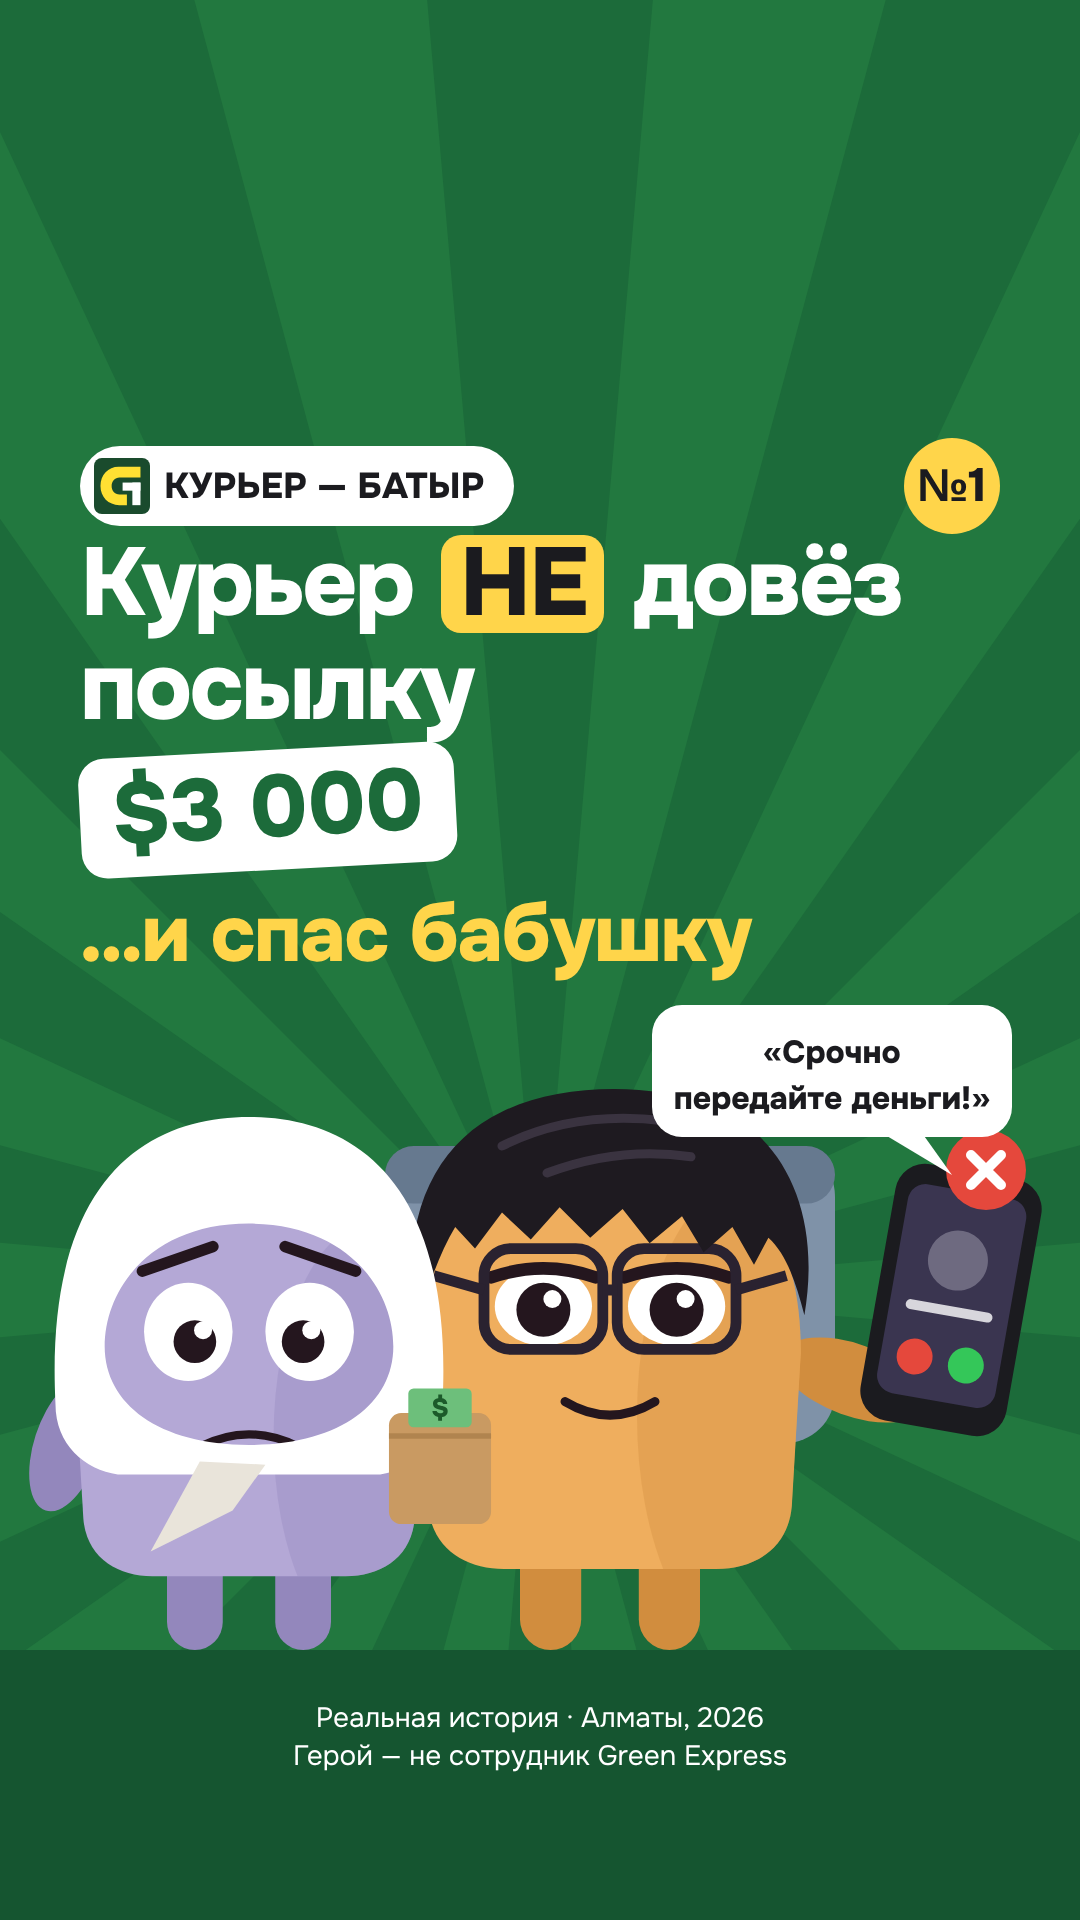
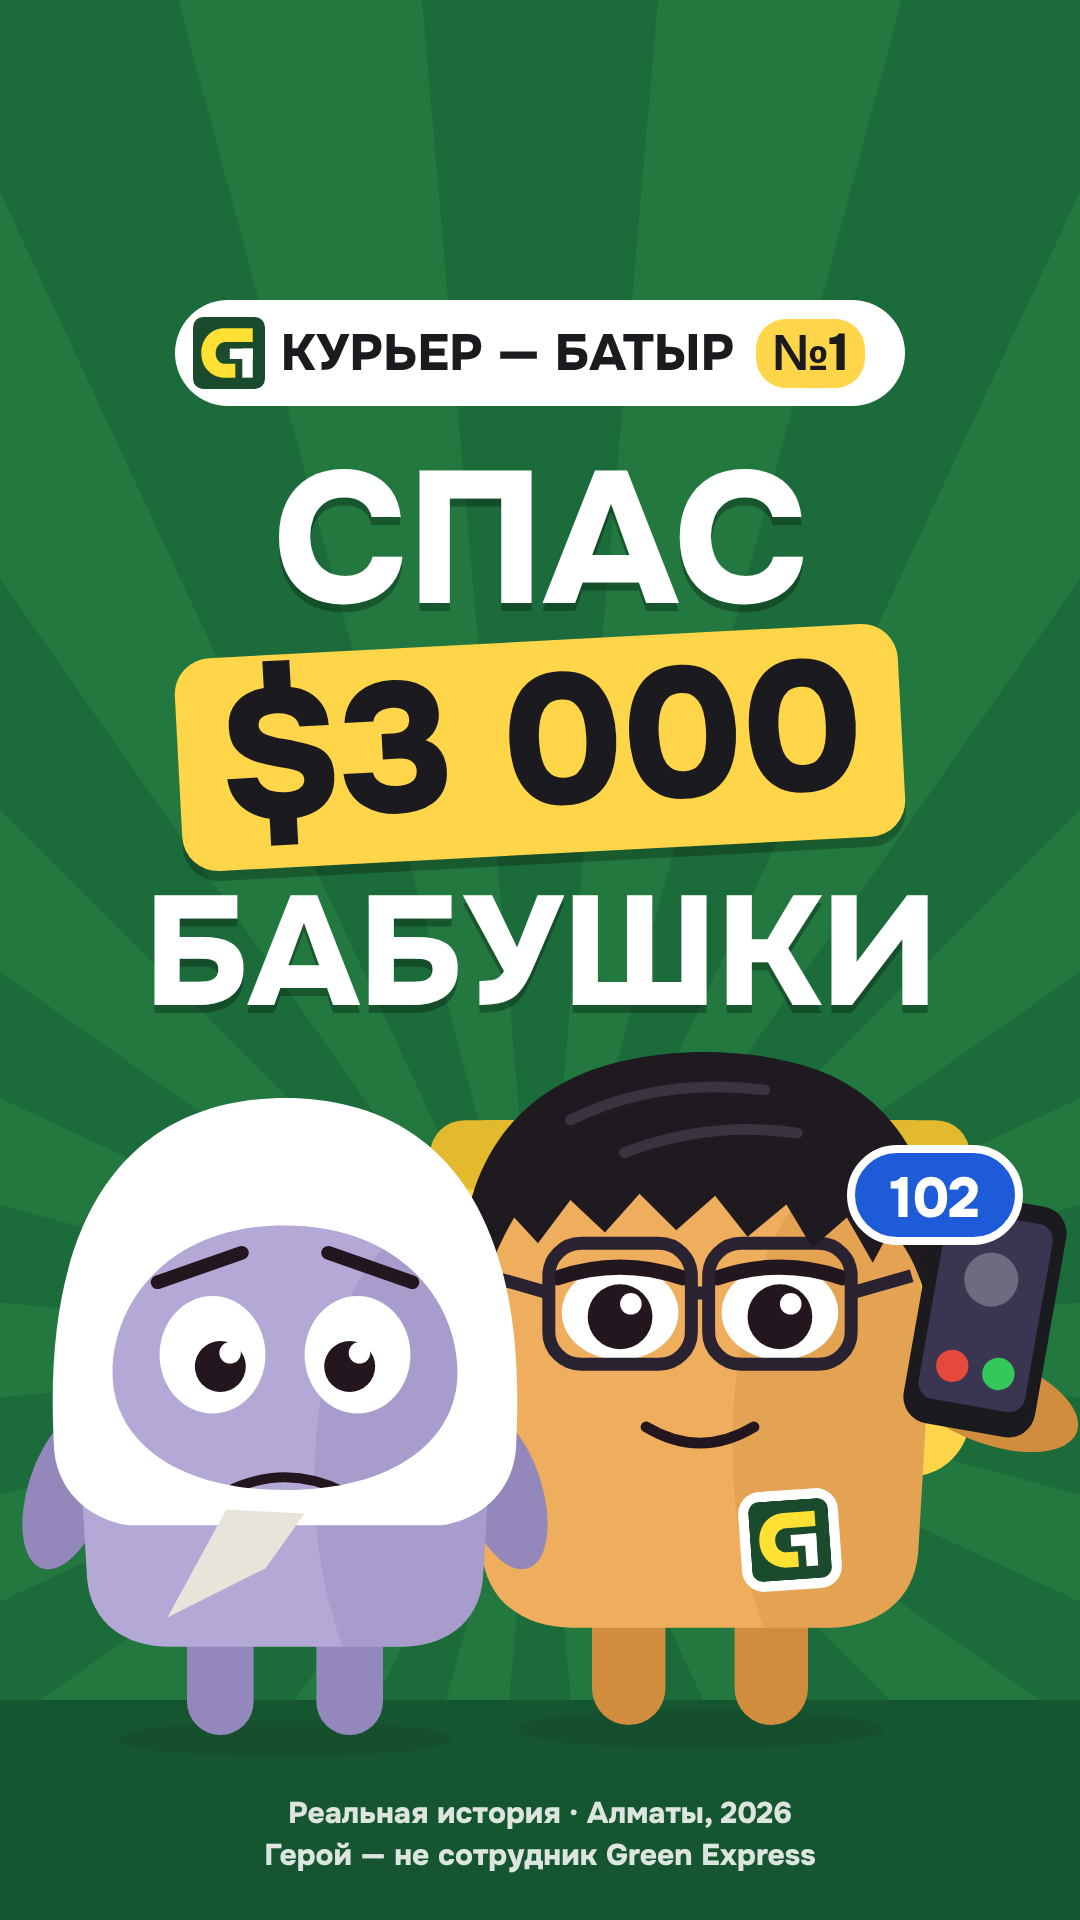
Courier heroes ep01: grid-first cover redesign (big 3-line headline, reviewed 8.5+)
Claude-Session: https://claude.ai/code/session_015PP6DdKJ123PbBgShdbRym

diff --git a/projects/courier-heroes/ep01/cover/cover.html b/projects/courier-heroes/ep01/cover/cover.html
@@ -5,47 +5,46 @@
 <style>
 @font-face{font-family:Onest;font-weight:800;src:url(assets/onest-cyrillic-800-normal.woff2);unicode-range:U+0400-045F}
 @font-face{font-family:Onest;font-weight:800;src:url(assets/onest-latin-800-normal.woff2);unicode-range:U+0000-00FF,U+2010-2027,U+00AB,U+00BB,U+2116}
-@font-face{font-family:Onest;font-weight:500;src:url(assets/onest-cyrillic-400-normal.woff2);unicode-range:U+0400-045F}
-@font-face{font-family:Onest;font-weight:500;src:url(assets/onest-latin-400-normal.woff2);unicode-range:U+0000-00FF,U+2010-2027,U+00AB,U+00BB}
-/* Series template tokens (ui-ux-pro-max: ui-reasoning «Social Media App» → Vibrant & Block-based; styles «Flat Design» → ≤6 colours, no gradients)
-   bg = Green Express green, rays = lighter green, ink/white text, yellow accent, red alert. */
+/* Grid-first cover: everything that matters sits in the 3:4 centre (y 240–1680) and reads at ~130 pt tile width. */
 :root{--bg:#1C6B3A;--ray:#22783F;--ground:#155530;--white:#FFFFFF;--ink:#1B1B1F;--yel:#FFD54A;--red:#E5483C}
 html,body{margin:0}
-body{width:1080px;height:1920px;overflow:hidden;font-family:Onest,sans-serif;background:var(--bg);color:var(--white)}
-#c{position:relative;width:1080px;height:1920px;overflow:hidden;background:var(--bg)}
+body{width:1080px;height:1920px;overflow:hidden;font-family:Onest,sans-serif;background:var(--bg)}
+#c{position:relative;width:1080px;height:1920px;overflow:hidden}
 .abs{position:absolute}
-.rubric{left:80px;top:446px;display:flex;align-items:center;gap:14px;height:80px;padding:0 30px 0 14px;border-radius:40px;background:var(--white);color:var(--ink);font-weight:800;font-size:36px;white-space:nowrap}
-.rubric img{width:56px;height:56px}
-.num{right:80px;top:438px;width:96px;height:96px;border-radius:48px;background:var(--yel);color:var(--ink);font-weight:800;font-size:46px;line-height:96px;text-align:center}
-.h{left:80px;font-weight:800;font-size:96px;line-height:1.08;letter-spacing:-2.5px;white-space:nowrap}
-.ne{display:inline-block;background:var(--yel);color:var(--ink);border-radius:20px;padding:0 18px;margin:0 4px;line-height:1.02}
-.money{left:80px;top:760px;transform:rotate(-3deg);transform-origin:0 50%;background:var(--white);color:var(--bg);font-weight:800;font-size:88px;line-height:1;padding:14px 32px 18px;border-radius:26px}
-.sub{z-index:2;left:80px;top:892px;font-weight:800;font-size:80px;line-height:1.05;letter-spacing:-1.5px;color:var(--yel);white-space:nowrap}
-.foot{left:80px;width:920px;top:1700px;text-align:center;font-weight:500;font-size:28px;line-height:1.35;color:#FFFFFF}
-#fg ellipse[fill="#1B1B1F"]{display:none}
+.top{left:0;right:0;top:300px;display:flex;justify-content:center}
+.rubric{display:flex;align-items:center;gap:16px;height:106px;padding:0 40px 0 18px;border-radius:53px;background:var(--white);color:var(--ink);font-weight:800;font-size:51px;white-space:nowrap}
+.rubric img{width:72px;height:72px}
+.rubric b{background:var(--yel);border-radius:30px;padding:2px 16px;margin-left:6px}
+.line{left:0;width:1080px;text-align:center;font-weight:800;text-transform:uppercase;white-space:nowrap;letter-spacing:-2px;line-height:1;color:var(--white);
+  text-shadow:0 8px 0 rgba(0,0,0,.28)}
+.foot{left:0;width:1080px;top:1792px;text-align:center;font-weight:800;font-size:30px;line-height:1.4;color:rgba(255,255,255,.85)}
+.chip{display:inline-block;background:var(--yel);color:var(--ink);border-radius:36px;padding:10px 40px 18px;transform:rotate(-3deg);text-shadow:none;box-shadow:0 10px 0 rgba(0,0,0,.25)}
 svg{display:block;overflow:visible}
 </style></head>
 <body><div id="c">
   <svg id="bg" class="abs" style="left:0;top:0" width="1080" height="1920"></svg>
-  <div class="abs rubric"><img src="assets/ge_mark.svg" alt=""/>КУРЬЕР — БАТЫР</div>
-  <div class="abs num">№1</div>
-  <div class="abs h" style="top:532px">Курьер <span class="ne">НЕ</span> довёз</div>
-  <div class="abs h" style="top:636px">посылку</div>
-  <div class="abs money">$3 000</div>
-  <div class="abs sub">…и спас бабушку</div>
-  <svg id="fg" class="abs" style="left:0;top:0" width="1080" height="1920"></svg>
+  <div class="abs top"><div class="rubric"><img src="assets/ge_mark.svg" alt=""/>КУРЬЕР — БАТЫР<b>№1</b></div></div>
+  <div class="abs line" id="l1" style="top:440px" data-w="540">Спас</div>
+  <div class="abs line" id="l2" style="top:642px" data-w="700"><span class="chip">$3 000</span></div>
+  <div class="abs line" id="l3" style="top:884px" data-w="800">бабушки</div>
   <div class="abs foot">Реальная история · Алматы, 2026<br>Герой — не сотрудник Green Express</div>
+  <svg id="fg" class="abs" style="left:0;top:0" width="1080" height="1920"></svg>
 </div>
 <script>
 const $=s=>document.querySelector(s), add=(s,h)=>s.insertAdjacentHTML('beforeend',h);
-let rays=''; for(let i=0;i<18;i++){const a=i*20, r=1600, cx=540, cy=1290, d=Math.PI/180;
+let rays=''; for(let i=0;i<18;i++){const a=i*20, r=1700, cx=540, cy=1350, d=Math.PI/180;
   rays+=`<path d="M${cx} ${cy} L${cx+r*Math.cos((a-5)*d)} ${cy+r*Math.sin((a-5)*d)} L${cx+r*Math.cos((a+5)*d)} ${cy+r*Math.sin((a+5)*d)}Z" fill="var(--ray)"/>`;}
-add($('#bg'),rays+`<rect x="0" y="1650" width="1080" height="270" fill="var(--ground)"/>`);
-// granny (worried, behind) — courier (determined, palm out) — scam phone with its line
-add($('#fg'),`<g transform="translate(610 1650) scale(.9)">${mascot({id:'h',...HERO,act:'give',face:'resolve'})}</g>`);
-add($('#fg'),`<g transform="translate(249 1650) scale(.82)">${mascot({id:'g',col:'granny',scarf:SCARF,face:'worried'})}</g>`);
-add($('#fg'),`<g transform="translate(440 1480) scale(.88)"><rect x="-58" y="-76" width="116" height="126" rx="14" fill="#C99A62"/><path d="M-58 -50 H58" stroke="#B0844F" stroke-width="6"/><rect x="-36" y="-104" width="72" height="44" rx="6" fill="#6DBF7B"/><text x="0" y="-72" text-anchor="middle" font-family="Onest" font-weight="800" font-size="30" fill="#1C5A2A">$</text></g>`);
-add($('#fg'),`<g transform="translate(951 1300) rotate(10)"><rect x="-74" y="-130" width="148" height="260" rx="30" fill="var(--ink)"/><rect x="-60" y="-110" width="120" height="212" rx="18" fill="#3A3550"/><circle cx="0" cy="-40" r="30" fill="#6E6A80"/><rect x="-44" y="6" width="88" height="10" rx="5" fill="#fff" opacity=".8"/><circle cx="-26" cy="62" r="18" fill="var(--red)"/><circle cx="26" cy="62" r="18" fill="#34C759"/></g>
-  <g transform="translate(986 1170)"><circle r="40" fill="var(--red)"/><path d="M-15 -15 L15 15 M15 -15 L-15 15" stroke="#fff" stroke-width="10" stroke-linecap="round"/></g>
-  <g transform="translate(832 1075)"><rect x="-180" y="-70" width="360" height="132" rx="30" fill="var(--white)"/><path d="M90 58 L120 100 L50 58Z" fill="var(--white)"/><text x="0" y="-12" text-anchor="middle" font-family="Onest" font-weight="800" font-size="32" fill="var(--ink)">«Срочно</text><text x="0" y="34" text-anchor="middle" font-family="Onest" font-weight="800" font-size="32" fill="var(--ink)">передайте деньги!»</text></g>`);
+add($('#bg'),rays+`<rect x="0" y="1700" width="1080" height="220" fill="var(--ground)"/>`);
+// Big, close characters: granny (worried) and courier (resolve, palm out = "stop"), scam phone crossed out
+add($('#fg'),`<g transform="translate(700 1725) scale(1.08)">${mascot({id:'h',...HERO,bag:['#FFD54A','#E3B92E'],act:'give',face:'resolve'})}</g>`);
+add($('#fg'),`<g transform="translate(985 1315) rotate(10) scale(.9)"><rect x="-74" y="-130" width="148" height="260" rx="30" fill="var(--ink)"/><rect x="-60" y="-110" width="120" height="212" rx="18" fill="#3A3550"/><circle cx="0" cy="-40" r="30" fill="#6E6A80"/><circle cx="-26" cy="62" r="18" fill="var(--red)"/><circle cx="26" cy="62" r="18" fill="#34C759"/></g>
+  <g transform="translate(935 1195)"><rect x="-84" y="-46" width="168" height="92" rx="46" fill="#1E5BD8" stroke="#fff" stroke-width="8"/><text x="0" y="22" text-anchor="middle" font-family="Onest" font-weight="800" font-size="56" fill="#fff">102</text></g>`);
+add($('#fg'),`<g transform="translate(285 1735) scale(.98)">${mascot({id:'g',col:'granny',scarf:SCARF,face:'worried'})}</g>`);
+add($('#fg'),`<g transform="translate(790 1540) rotate(-4)"><rect x="-50" y="-50" width="100" height="100" rx="22" fill="#fff"/><image href="assets/ge_mark.svg" x="-40" y="-40" width="80" height="80"/></g>`);
+// fit each headline line to its target width
+document.fonts.ready.then(()=>{document.querySelectorAll('.line').forEach(el=>{
+  const target=+el.dataset.w; let fs=300; el.style.fontSize=fs+'px';
+  const span=document.createElement('span'); span.style.display='inline-block'; while(el.firstChild) span.appendChild(el.firstChild); el.appendChild(span);
+  fs=Math.floor(fs*target/span.getBoundingClientRect().width); el.style.fontSize=fs+'px'; el.dataset.fs=fs;});
+  let y=448; document.querySelectorAll('.line').forEach(el=>{el.style.top=y+'px'; y+=el.getBoundingClientRect().height+(el.id=='l1'?6:22);}); document.body.dataset.ready=1;});
 </script></body></html>

diff --git a/projects/courier-heroes/ep01/cover/cover_v7.html b/projects/courier-heroes/ep01/cover/cover_v7.html
@@ -1,0 +1,51 @@
+<!doctype html>
+<html lang="ru"><head><meta charset="utf-8">
+<title>Обложка · Курьер — батыр №1</title>
+<script src="mascot_lib.js"></script>
+<style>
+@font-face{font-family:Onest;font-weight:800;src:url(assets/onest-cyrillic-800-normal.woff2);unicode-range:U+0400-045F}
+@font-face{font-family:Onest;font-weight:800;src:url(assets/onest-latin-800-normal.woff2);unicode-range:U+0000-00FF,U+2010-2027,U+00AB,U+00BB,U+2116}
+@font-face{font-family:Onest;font-weight:500;src:url(assets/onest-cyrillic-400-normal.woff2);unicode-range:U+0400-045F}
+@font-face{font-family:Onest;font-weight:500;src:url(assets/onest-latin-400-normal.woff2);unicode-range:U+0000-00FF,U+2010-2027,U+00AB,U+00BB}
+/* Series template tokens (ui-ux-pro-max: ui-reasoning «Social Media App» → Vibrant & Block-based; styles «Flat Design» → ≤6 colours, no gradients)
+   bg = Green Express green, rays = lighter green, ink/white text, yellow accent, red alert. */
+:root{--bg:#1C6B3A;--ray:#22783F;--ground:#155530;--white:#FFFFFF;--ink:#1B1B1F;--yel:#FFD54A;--red:#E5483C}
+html,body{margin:0}
+body{width:1080px;height:1920px;overflow:hidden;font-family:Onest,sans-serif;background:var(--bg);color:var(--white)}
+#c{position:relative;width:1080px;height:1920px;overflow:hidden;background:var(--bg)}
+.abs{position:absolute}
+.rubric{left:80px;top:446px;display:flex;align-items:center;gap:14px;height:80px;padding:0 30px 0 14px;border-radius:40px;background:var(--white);color:var(--ink);font-weight:800;font-size:36px;white-space:nowrap}
+.rubric img{width:56px;height:56px}
+.num{right:80px;top:438px;width:96px;height:96px;border-radius:48px;background:var(--yel);color:var(--ink);font-weight:800;font-size:46px;line-height:96px;text-align:center}
+.h{left:80px;font-weight:800;font-size:96px;line-height:1.08;letter-spacing:-2.5px;white-space:nowrap}
+.ne{display:inline-block;background:var(--yel);color:var(--ink);border-radius:20px;padding:0 18px;margin:0 4px;line-height:1.02}
+.money{left:80px;top:760px;transform:rotate(-3deg);transform-origin:0 50%;background:var(--white);color:var(--bg);font-weight:800;font-size:88px;line-height:1;padding:14px 32px 18px;border-radius:26px}
+.sub{z-index:2;left:80px;top:892px;font-weight:800;font-size:80px;line-height:1.05;letter-spacing:-1.5px;color:var(--yel);white-space:nowrap}
+.foot{left:80px;width:920px;top:1700px;text-align:center;font-weight:500;font-size:28px;line-height:1.35;color:#FFFFFF}
+#fg ellipse[fill="#1B1B1F"]{display:none}
+svg{display:block;overflow:visible}
+</style></head>
+<body><div id="c">
+  <svg id="bg" class="abs" style="left:0;top:0" width="1080" height="1920"></svg>
+  <div class="abs rubric"><img src="assets/ge_mark.svg" alt=""/>КУРЬЕР — БАТЫР</div>
+  <div class="abs num">№1</div>
+  <div class="abs h" style="top:532px">Курьер <span class="ne">НЕ</span> довёз</div>
+  <div class="abs h" style="top:636px">посылку</div>
+  <div class="abs money">$3 000</div>
+  <div class="abs sub">…и спас бабушку</div>
+  <svg id="fg" class="abs" style="left:0;top:0" width="1080" height="1920"></svg>
+  <div class="abs foot">Реальная история · Алматы, 2026<br>Герой — не сотрудник Green Express</div>
+</div>
+<script>
+const $=s=>document.querySelector(s), add=(s,h)=>s.insertAdjacentHTML('beforeend',h);
+let rays=''; for(let i=0;i<18;i++){const a=i*20, r=1600, cx=540, cy=1290, d=Math.PI/180;
+  rays+=`<path d="M${cx} ${cy} L${cx+r*Math.cos((a-5)*d)} ${cy+r*Math.sin((a-5)*d)} L${cx+r*Math.cos((a+5)*d)} ${cy+r*Math.sin((a+5)*d)}Z" fill="var(--ray)"/>`;}
+add($('#bg'),rays+`<rect x="0" y="1650" width="1080" height="270" fill="var(--ground)"/>`);
+// granny (worried, behind) — courier (determined, palm out) — scam phone with its line
+add($('#fg'),`<g transform="translate(610 1650) scale(.9)">${mascot({id:'h',...HERO,act:'give',face:'resolve'})}</g>`);
+add($('#fg'),`<g transform="translate(249 1650) scale(.82)">${mascot({id:'g',col:'granny',scarf:SCARF,face:'worried'})}</g>`);
+add($('#fg'),`<g transform="translate(440 1480) scale(.88)"><rect x="-58" y="-76" width="116" height="126" rx="14" fill="#C99A62"/><path d="M-58 -50 H58" stroke="#B0844F" stroke-width="6"/><rect x="-36" y="-104" width="72" height="44" rx="6" fill="#6DBF7B"/><text x="0" y="-72" text-anchor="middle" font-family="Onest" font-weight="800" font-size="30" fill="#1C5A2A">$</text></g>`);
+add($('#fg'),`<g transform="translate(951 1300) rotate(10)"><rect x="-74" y="-130" width="148" height="260" rx="30" fill="var(--ink)"/><rect x="-60" y="-110" width="120" height="212" rx="18" fill="#3A3550"/><circle cx="0" cy="-40" r="30" fill="#6E6A80"/><rect x="-44" y="6" width="88" height="10" rx="5" fill="#fff" opacity=".8"/><circle cx="-26" cy="62" r="18" fill="var(--red)"/><circle cx="26" cy="62" r="18" fill="#34C759"/></g>
+  <g transform="translate(986 1170)"><circle r="40" fill="var(--red)"/><path d="M-15 -15 L15 15 M15 -15 L-15 15" stroke="#fff" stroke-width="10" stroke-linecap="round"/></g>
+  <g transform="translate(832 1075)"><rect x="-180" y="-70" width="360" height="132" rx="30" fill="var(--white)"/><path d="M90 58 L120 100 L50 58Z" fill="var(--white)"/><text x="0" y="-12" text-anchor="middle" font-family="Onest" font-weight="800" font-size="32" fill="var(--ink)">«Срочно</text><text x="0" y="34" text-anchor="middle" font-family="Onest" font-weight="800" font-size="32" fill="var(--ink)">передайте деньги!»</text></g>`);
+</script></body></html>

diff --git a/projects/courier-heroes/ep01/cover/cover_v8.html b/projects/courier-heroes/ep01/cover/cover_v8.html
@@ -1,0 +1,50 @@
+<!doctype html>
+<html lang="ru"><head><meta charset="utf-8">
+<title>Обложка · Курьер — батыр №1</title>
+<script src="mascot_lib.js"></script>
+<style>
+@font-face{font-family:Onest;font-weight:800;src:url(assets/onest-cyrillic-800-normal.woff2);unicode-range:U+0400-045F}
+@font-face{font-family:Onest;font-weight:800;src:url(assets/onest-latin-800-normal.woff2);unicode-range:U+0000-00FF,U+2010-2027,U+00AB,U+00BB,U+2116}
+/* Grid-first cover: everything that matters sits in the 3:4 centre (y 240–1680) and reads at ~130 pt tile width. */
+:root{--bg:#1C6B3A;--ray:#22783F;--ground:#155530;--white:#FFFFFF;--ink:#1B1B1F;--yel:#FFD54A;--red:#E5483C}
+html,body{margin:0}
+body{width:1080px;height:1920px;overflow:hidden;font-family:Onest,sans-serif;background:var(--bg)}
+#c{position:relative;width:1080px;height:1920px;overflow:hidden}
+.abs{position:absolute}
+.top{left:0;right:0;top:300px;display:flex;justify-content:center}
+.rubric{display:flex;align-items:center;gap:16px;height:106px;padding:0 40px 0 18px;border-radius:53px;background:var(--white);color:var(--ink);font-weight:800;font-size:51px;white-space:nowrap}
+.rubric img{width:72px;height:72px}
+.rubric b{background:var(--yel);border-radius:30px;padding:2px 16px;margin-left:6px}
+.line{left:0;width:1080px;text-align:center;font-weight:800;text-transform:uppercase;white-space:nowrap;letter-spacing:-2px;line-height:1;color:var(--white);
+  text-shadow:0 8px 0 rgba(0,0,0,.28)}
+.foot{left:0;width:1080px;top:1792px;text-align:center;font-weight:800;font-size:30px;line-height:1.4;color:rgba(255,255,255,.85)}
+.chip{display:inline-block;background:var(--yel);color:var(--ink);border-radius:36px;padding:10px 40px 18px;transform:rotate(-3deg);text-shadow:none;box-shadow:0 10px 0 rgba(0,0,0,.25)}
+svg{display:block;overflow:visible}
+</style></head>
+<body><div id="c">
+  <svg id="bg" class="abs" style="left:0;top:0" width="1080" height="1920"></svg>
+  <div class="abs top"><div class="rubric"><img src="assets/ge_mark.svg" alt=""/>КУРЬЕР — БАТЫР<b>№1</b></div></div>
+  <div class="abs line" id="l1" style="top:440px" data-w="540">Спас</div>
+  <div class="abs line" id="l2" style="top:642px" data-w="700"><span class="chip">$3 000</span></div>
+  <div class="abs line" id="l3" style="top:884px" data-w="800">бабушки</div>
+  <div class="abs foot">Реальная история · Алматы, 2026<br>Герой — не сотрудник Green Express</div>
+  <svg id="fg" class="abs" style="left:0;top:0" width="1080" height="1920"></svg>
+</div>
+<script>
+const $=s=>document.querySelector(s), add=(s,h)=>s.insertAdjacentHTML('beforeend',h);
+let rays=''; for(let i=0;i<18;i++){const a=i*20, r=1700, cx=540, cy=1350, d=Math.PI/180;
+  rays+=`<path d="M${cx} ${cy} L${cx+r*Math.cos((a-5)*d)} ${cy+r*Math.sin((a-5)*d)} L${cx+r*Math.cos((a+5)*d)} ${cy+r*Math.sin((a+5)*d)}Z" fill="var(--ray)"/>`;}
+add($('#bg'),rays+`<rect x="0" y="1700" width="1080" height="220" fill="var(--ground)"/>`);
+// Big, close characters: granny (worried) and courier (resolve, palm out = "stop"), scam phone crossed out
+add($('#fg'),`<g transform="translate(700 1725) scale(1.08)">${mascot({id:'h',...HERO,bag:['#FFD54A','#E3B92E'],act:'give',face:'resolve'})}</g>`);
+add($('#fg'),`<g transform="translate(985 1315) rotate(10) scale(.9)"><rect x="-74" y="-130" width="148" height="260" rx="30" fill="var(--ink)"/><rect x="-60" y="-110" width="120" height="212" rx="18" fill="#3A3550"/><circle cx="0" cy="-40" r="30" fill="#6E6A80"/><circle cx="-26" cy="62" r="18" fill="var(--red)"/><circle cx="26" cy="62" r="18" fill="#34C759"/></g>
+  <g transform="translate(935 1195)"><rect x="-84" y="-46" width="168" height="92" rx="46" fill="#1E5BD8" stroke="#fff" stroke-width="8"/><text x="0" y="22" text-anchor="middle" font-family="Onest" font-weight="800" font-size="56" fill="#fff">102</text></g>`);
+add($('#fg'),`<g transform="translate(285 1735) scale(.98)">${mascot({id:'g',col:'granny',scarf:SCARF,face:'worried'})}</g>`);
+add($('#fg'),`<g transform="translate(790 1540) rotate(-4)"><rect x="-50" y="-50" width="100" height="100" rx="22" fill="#fff"/><image href="assets/ge_mark.svg" x="-40" y="-40" width="80" height="80"/></g>`);
+// fit each headline line to its target width
+document.fonts.ready.then(()=>{document.querySelectorAll('.line').forEach(el=>{
+  const target=+el.dataset.w; let fs=300; el.style.fontSize=fs+'px';
+  const span=document.createElement('span'); span.style.display='inline-block'; while(el.firstChild) span.appendChild(el.firstChild); el.appendChild(span);
+  fs=Math.floor(fs*target/span.getBoundingClientRect().width); el.style.fontSize=fs+'px'; el.dataset.fs=fs;});
+  let y=448; document.querySelectorAll('.line').forEach(el=>{el.style.top=y+'px'; y+=el.getBoundingClientRect().height+(el.id=='l1'?6:22);}); document.body.dataset.ready=1;});
+</script></body></html>
